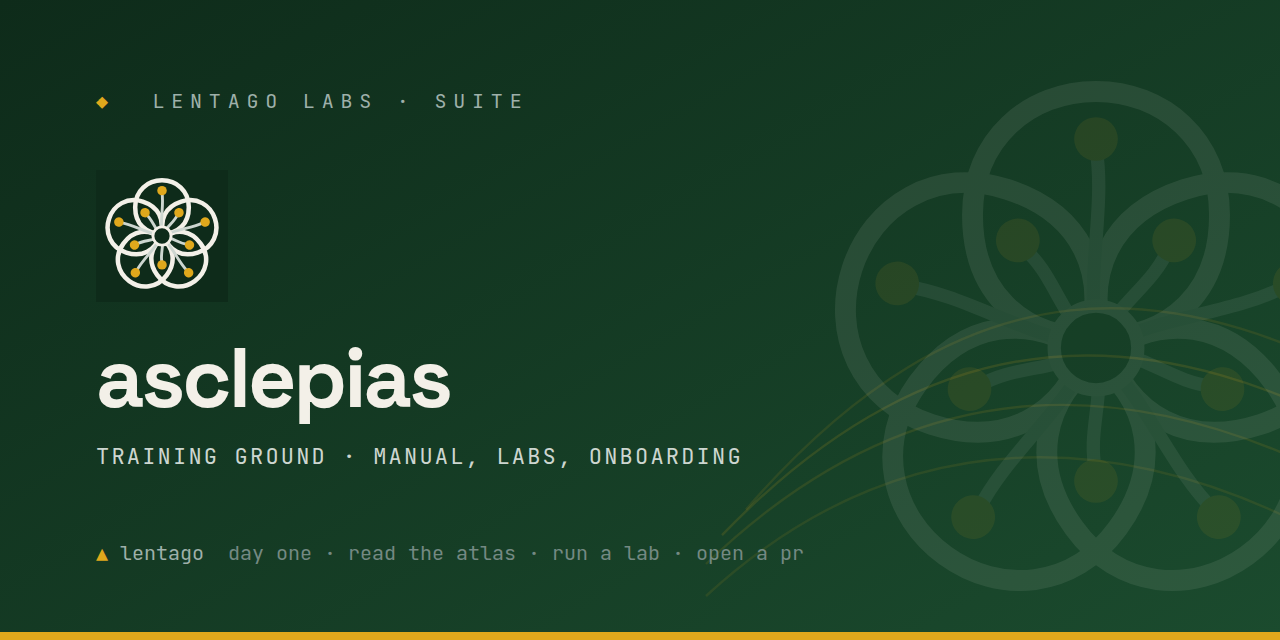
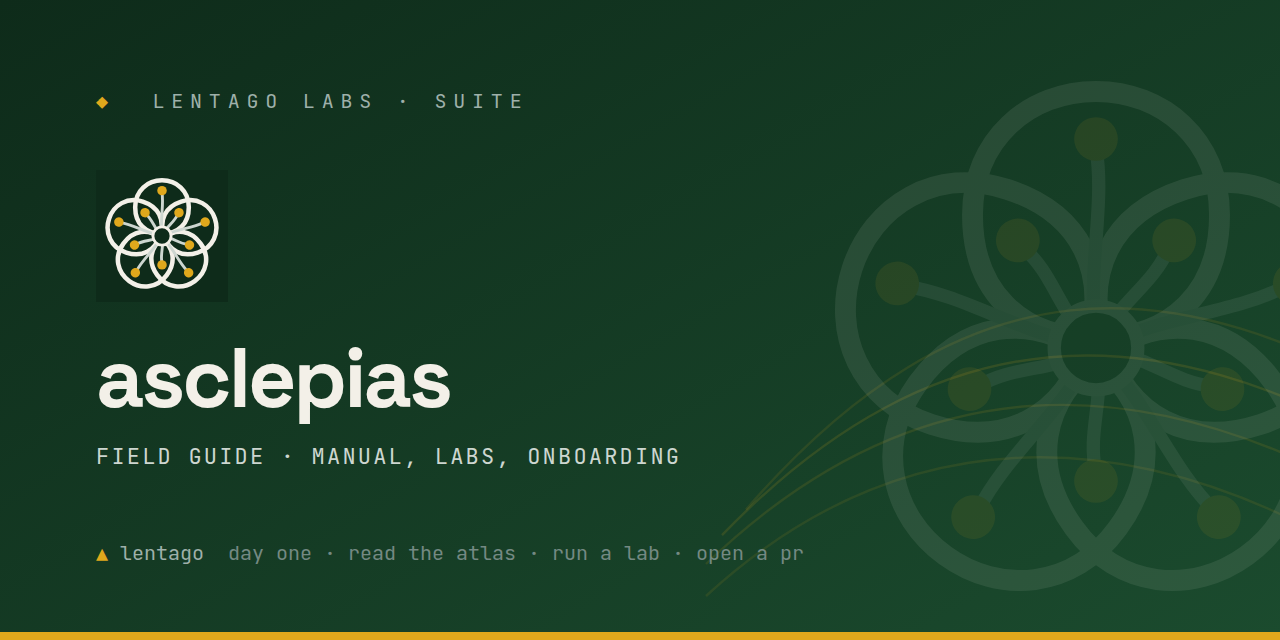
asclepias: reposition from training ground to field guide (#110)

Changed region(s): [[0.0625, 0.6875, 0.5938, 0.75]]

diff --git a/profile/README.md b/profile/README.md
@@ -88,7 +88,7 @@ Everything is code. Every change is a pull request. Merges apply automatically. 
 </tr>
 <tr>
 <td><img src="./assets/marks/lentago-mark-square.svg" width="22" height="22" align="absmiddle" alt="" />&nbsp; <a href="https://github.com/lentago/asclepias"><b>asclepias</b></a><br/><sub><a href="https://deepwiki.com/lentago/asclepias">DeepWiki&nbsp;↗</a></sub></td>
-<td>The training ground — operations manual, day-one onboarding, hands-on labs.</td>
+<td>The field guide — operations manual, day-one path, hands-on labs.</td>
 </tr>
 </table>
 
